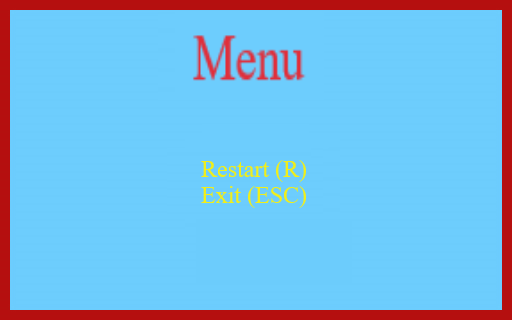
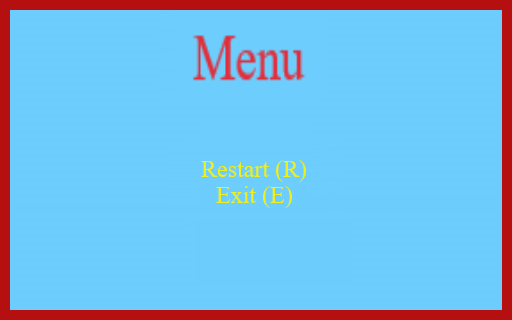
Fete pentru nr de vieti

Changed region(s): [[0.375, 0.5625, 0.625, 0.6562]]

diff --git a/Game.cpp b/Game.cpp
@@ -58,6 +58,10 @@ Game::Game(const char* title, atom x, atom y, atom w, atom h, bool fullscreen) {
 	assets->AddTexture("rock", "assets/Rock-animation360.png");
 	assets->AddTexture("meat", "assets/meat.png");
 
+	assets->AddTexture("1face", "assets/Luffy_face1.png");
+	assets->AddTexture("2faces", "assets/Luffy_face2.png");
+	assets->AddTexture("3faces", "assets/Luffy_face3.png");
+
 	assets->AddTexture("0", "assets/Fundal/menu_esc.png");			
 	assets->AddTexture("1", "assets/Fundal/menu_final_or_dead.png");	
 	assets->AddTexture("2", "assets/Fundal/you_died.png");			
@@ -80,7 +84,7 @@ Game::Game(const char* title, atom x, atom y, atom w, atom h, bool fullscreen) {
 	//assets->AddFont("arial", "assets/arial.ttf", 16);
 	
 	assets->addImages();
-
+	assets->addFaces();
 	player.addComponent<TransformComponent>( 0, 1152 );//(64*0, 64*18)
 	player.addComponent<SpriteComponent>("player");
 	player.addComponent<KeyboardController>();
@@ -112,8 +116,7 @@ void Game::lvlinit(int lvl){
 	manager.refresh();
 	manager.update();
 	player.getComponent<TransformComponent>().setposition({ 0, 1152 });
-	player.getComponent<TransformComponent>().setvelocity({0, 0 });
-	meateat = 0;
+	player.getComponent<TransformComponent>().setvelocity({ 0, 0 });
 	if (lvl == 1) {
 		mapa->LoadMap("assets/Lvl1Map.map", 32, 20);
 		assets->createMandR(harta, "assets/Lvl1ItemMap.Map", 32, 20);
@@ -411,25 +414,30 @@ void Game::render() {
 	//label.draw();
 	int count = 0;
 	for (auto& i : imagini) {
-		if(esc && count == 0)
-			i->draw();
-		if (levelclear && curentlevel == 1 && count == 4)
-			i->draw();
-		if (levelclear && curentlevel == 2 && count == 5)
-			i->draw();
-		if (levelclear && curentlevel == 3 && count == 6)
-			i->draw();
-		if (curentlevel == 4 && count == 18)
-			i->draw();
-		if (playerdied && livesleft && count == 2)
-			i->draw();
-		if (!livesleft && !exitdead && count == 3)
-			i->draw();
-		if (((curentlevel == 4 && exitlvl4) || (!livesleft && exitdead)) && count == 1)
-			i->draw();
+		if (count == 0 && esc)
+			i->draw();//escape
+		if (count == 1 && ((curentlevel == 4 && exitlvl4) || (!livesleft && exitdead)))
+			i->draw();//menu - you died for good or finished game
+		if (count == 2 && playerdied && livesleft)
+			i->draw();//you died
+		if (count == 3 && !livesleft && !exitdead)
+			i->draw();//omae wa mou shindeiru
+		if (count == 4 && levelclear && curentlevel == 1)
+			i->draw();//level 1 clear
+		if (count == 5 && levelclear && curentlevel == 2)
+			i->draw();//level 2 clear
+		if (count == 6 && levelclear && curentlevel == 3)
+			i->draw();//last level clear
 		if (count == 7 + right && right >= 0 && right<=10)
-			i->draw();
-
+			i->draw();//begining panels
+		if (count == 18 && curentlevel == 4 && !exitlvl4)
+			i->draw();//the Meat
+		if (count == 19 && livesleft == 1)
+			i->draw();//o fata
+		if (count == 20 && livesleft == 2)
+			i->draw();//doua fete
+		if (count == 21 && livesleft == 3)
+			i->draw();//trei fete
 		count++;
 	}
 	//until here
@@ -482,4 +490,8 @@ int Game::getclevel() {
 
 void Game::setclevel(int lvl) {
 	curentlevel = lvl;
+}
+
+void Game::setmeat(int m) {
+	meateat = m;
 }

diff --git a/main.cpp b/main.cpp
@@ -11,7 +11,7 @@ int main(int argc, char* args[])
 	Game *game = nullptr;
 	SDL_Event event;
 	game=new Game("One Piece of Meat", SDL_WINDOWPOS_CENTERED, SDL_WINDOWPOS_CENTERED, MAX_WIDTH, MAX_HEIGHT, false);
-	game->lvlinit(3);
+	game->lvlinit(1);
 	game->update();
 	
 	while (game->running()) {
@@ -191,10 +191,11 @@ int main(int argc, char* args[])
 				while (SDL_PollEvent(&event)) {
 					if (event.type == SDL_KEYUP)
 						switch (event.key.keysym.sym) {
-						case SDLK_ESCAPE: breakok = true;
+						case SDLK_e: breakok = true;
 							game->setisrunning(false);
 							break;
 						case SDLK_r: game->lvlinit(1);
+							game->setmeat(0);
 							game->setclevel(1);
 							game->livesleft = 3;
 							game->exitdead = false;
@@ -222,28 +223,29 @@ int main(int argc, char* args[])
 		if (game->getesc()) {
 			while (game->running()) {
 				bool breakok = false;
-				while (SDL_PollEvent(&event)) {
-					if (event.type == SDL_KEYUP)
-						switch (event.key.keysym.sym) {
-						case SDLK_t: breakok = true;
-							break;
-						case SDLK_l: game->lvlinit(game->getclevel());
-							game->livesleft--;
-							breakok = true;
-							break;
-						case SDLK_ESCAPE: breakok = true;
-							game->setisrunning(false);
-							break;
-						case SDLK_r: game->lvlinit(1);
-							game->setclevel(1);
-							game->exitdead = false;
-							game->livesleft = 3;
-							breakok = true;
-							break;
-						default: breakok = false;
-							break;
-						}
-				}
+				if (game->getevent().type == SDL_KEYUP)
+					switch (game->getevent().key.keysym.sym) {
+					case SDLK_t: breakok = true;
+						break;
+					case SDLK_l: game->lvlinit(game->getclevel());							
+						game->livesleft--;
+						breakok = true;
+						break;
+					case SDLK_e: breakok = true;
+						game->setisrunning(false);
+						break;	
+					case SDLK_r: game->lvlinit(1);
+						game->setclevel(1);
+						game->setmeat(0);
+						game->exitdead = false;
+						game->livesleft = 3;
+						breakok = true;
+						break;
+					default: breakok = false;
+						break;
+					}
+				if (breakok)
+					break;
 				frameStart = SDL_GetTicks();
 				game->handleEvents();
 				//game->update();
@@ -251,8 +253,6 @@ int main(int argc, char* args[])
 				frameTime = SDL_GetTicks() - frameStart;
 				if (frameDelay > frameTime) {
 					SDL_Delay(frameDelay - frameTime);
-					if (breakok)
-						break;
 				}
 			}
 			game->setesc(false);

diff --git a/AssetManager.cpp b/AssetManager.cpp
@@ -68,6 +68,29 @@ void AssetManager::createMandR(ItemMap& harta, string fisier, int sizeX, int siz
 	}
 }
 
+void AssetManager::addFaces() {
+	for (int i = 0; i < 3; ++i) {
+		addFace(i+1);
+	}
+}
+
+void AssetManager::addFace(int nr) {
+	auto& imagine(manager->addEntity());
+	int x = 1024 - 64 * nr;
+	imagine.addComponent<TransformComponent>(x, 0);
+	switch (nr) {
+	case 1: imagine.addComponent<SpriteComponent>("1face");
+			break;
+	case 2: imagine.getComponent<TransformComponent>().setw(800);
+			imagine.addComponent<SpriteComponent>("2faces");
+			break;
+	case 3: imagine.getComponent<TransformComponent>().setw(1200);
+			imagine.addComponent<SpriteComponent>("3faces");
+			break;
+	}
+	imagine.addGroup(Game::groupImages);
+}
+
 void AssetManager::addImages() {
 	for (int i = 0; i <= 18; ++i) {
 		char s[10];

diff --git a/ECS/KeyboardController.h b/ECS/KeyboardController.h
@@ -11,7 +11,7 @@ public:
 	}
 
 	void update() override {
-		if (Game::getevent().type == SDL_KEYDOWN) {
+		if (Game::getevent().type == SDL_KEYDOWN){
 			switch (Game::getevent().key.keysym.sym) {
 			case SDLK_w:
 				transform->vsetx(0);
@@ -37,7 +37,6 @@ public:
 				break;
 			}
 		}
-
 		if (Game::getevent().type == SDL_KEYUP) {
 			switch (Game::getevent().key.keysym.sym) {
 			case SDLK_w:

diff --git a/Game.h b/Game.h
@@ -21,7 +21,7 @@ class Game {
 	static AssetManager *assets;
 	bool levelclear = false;
 	static bool esc;
-	int curentlevel = 3;
+	int curentlevel = 1;
 	
 public:
 	enum groupLabels : size_t {
@@ -58,4 +58,5 @@ public:
 	int getclevel();
 	void setclevel(int);
 	void lvlinit(int lvl);
+	void setmeat(int m);
 };

diff --git a/AssetManager.h b/AssetManager.h
@@ -17,6 +17,8 @@ public:
 	~AssetManager();
 	//game objects
 	void addImages();
+	void addFace(int);
+	void addFaces();
 	void CreateImage(string s);
 	void createRock(Vector2D pos, string id);
 	void createMeat(Vector2D pos, string id);
